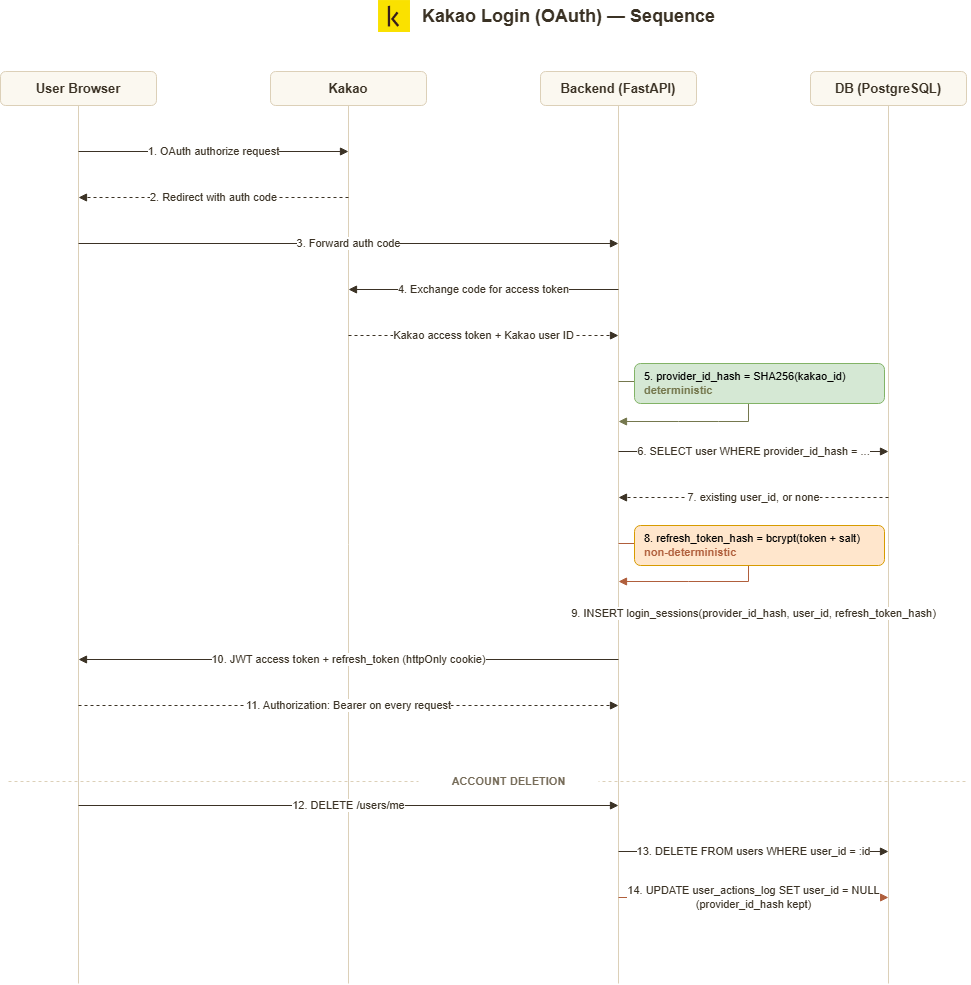
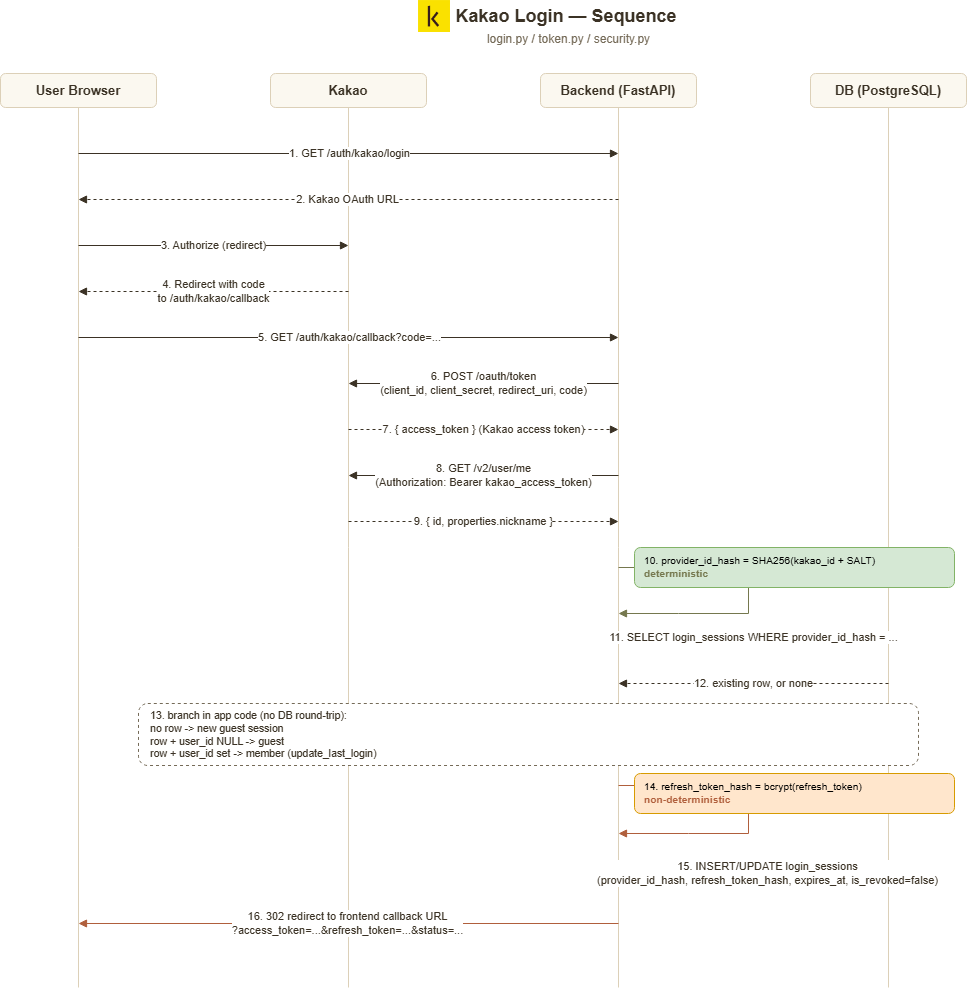
docs: UPDATE content

diff --git a/src/content.ko.js b/src/content.ko.js
@@ -8,7 +8,7 @@ export const profile = {
   greeting: "안녕하세요, 황윤정입니다.",
   role: "데이터 엔지니어링 · 백엔드 / 인프라 설계",
   tagline: "깊이 있게 공부하고, 배운 걸 기록하며, \n 그 과정을 통해 성장하는 걸 좋아합니다.",
-  current: "현재 공공데이터 활용 아이디어 공모전에 팀으로 참여 중입니다 \n (한국문화예술교육진흥원, ARTE)",
+  current: "현재 공공데이터 활용 아이디어 공모전에 팀으로 참여 중입니다. \n (한국문화예술교육진흥원, ARTE)",
   links: {
     github: "https://github.com/hvvrnz",
     velog: "https://velog.io/@0lalsoo",
@@ -41,7 +41,7 @@ export const serviceIntro = {
   description:
     "학교 포털에서 다운로드한 공식 성적표(엑셀 파일)를 올리면, 자동으로 어떤 과목을 들었는지 분류하고 졸업까지 뭐가 더 필요한지 보여줍니다. 단순히 학점만 더하는 게 아니라, 세부 항목별 이수 현황 추적, 수강 시뮬레이션, 평점(GPA) 분석, AI 수강 추천까지 제공합니다.",
   features: [
-    { title: "이수 과목 등록", desc: "성적표를 올리거나 직접 입력해서 들었던 과목을 등록" },
+    { title: "이수 과목 등록", desc: "성적표를 올리거나, 성적표 없이 기본정보만 입력하는 간단한 등록으로 member가 되면, 그 다음부터는 과목을 직접 추가·수정할 수 있음" },
     { title: "졸업요건 분석", desc: "전공 · 교양 · 기타 학점을 얼마나 채웠는지 바로 확인" },
     { title: "태그 관리", desc: "전공 · 교양의 세부 영역을 직접 만들고 최소 이수학점을 정함" },
     { title: "수강 시뮬레이션", desc: "앞으로 들을 과목을 미리 넣어보고 졸업요건이 채워지는지 확인" },
@@ -159,29 +159,16 @@ export const designInsights = [
     diagram: "kakaoLoginSequence",
   },
   {
-    title: "문제 해결 — 탈퇴 후 재가입 시 과목이 중복으로 쌓이던 문제",
+    title: "중복 판정의 기준 — 무엇을 \"같은 과목\"으로 볼 것인가",
     body:
-      "과목 데이터를 저장하는 트리거(fn_snap_evidence_to_validation)는 같은 데이터가 중복으로 들어오지 않게, 같은 사용자가 같은 과목을 다시 올리면 새로 만들지 않고 기존 데이터를 업데이트하도록 설계되어 있었습니다. \n 그런데 처음 만든 버전은 '같은 과목이 또 들어왔다'는 걸 로그로만 남기고, 실제로 막는 코드는 없었습니다 — 그래서 탈퇴 후 같은 카카오 계정으로 다시 가입한 사용자가 같은 과목을 또 올리면, 똑같은 고유 값(snap_unique_hash)을 가진 데이터가 또 쌓였고, 그 결과 신뢰도 점수와 누적 횟수가 실제보다 부풀려졌습니다. 감지했을 때 새로 추가하는 대신 기존 데이터를 업데이트하고 끝나도록 트리거를 고치고, 데이터베이스 자체에서 중복을 막아주는 제약(유니크 인덱스)도 추가해서 해결했습니다.",
-    code: `-- 수정 전 — 중복을 감지만 하고 막지는 않음
-RAISE NOTICE '재업로드 감지: validation_id % 번', v_past_validation_id;
--- 이후 그대로 새 데이터가 추가됨 → 중복 발생
-
--- 수정 후 — 기존 데이터를 업데이트하고 새로 추가하지 않음
-IF v_past_validation_id IS NOT NULL THEN
-    RAISE NOTICE '재업로드 감지: validation_id % 번', v_past_validation_id;
-    UPDATE lecture_validation
-    SET evidence_lec_id = NEW.evidence_lec_id
-    WHERE validation_id = v_past_validation_id;
-    RETURN NEW;  -- 여기서 끝내고 아래 INSERT는 실행 안 함
-END IF;
-
--- 기존 인덱스는 검색만 빠르게 해줄 뿐, 중복을 막아주진 못했음
--- CREATE INDEX idx_val_snap_unique_hash ON lecture_validation(snap_unique_hash);
-
--- 실제로 중복을 막아주는 제약 추가
-CREATE UNIQUE INDEX IF NOT EXISTS idx_val_snap_unique_hash_unique
-ON lecture_validation(snap_unique_hash)
-WHERE snap_unique_hash IS NOT NULL;`,
+      "lecture_frequency는 과목을 4개 컬럼(lecture_code, lecture_name, lecture_credit, lecture_category) 조합으로 판단해요 — user_id나 validation_id는 보지 않습니다. 의도한 거예요: 이 테이블은 'DB row가 몇 개 있는지'가 아니라 '독립된 업로드들이 이 과목의 존재에 얼마나 동의하는지'를 추적하는 거니까요. 탈퇴하면 lecture_evidence는 완전히 삭제돼서 unique_hash 자리가 비워지고, lecture_validation은 evidence_lec_id만 NULL로 남아서 이미 반영된 점수는 그대로 보존됩니다. 같은 사람이 재가입해서 같은 과목을 다시 올리면 트리거가 snap_unique_hash로 그 고아 row를 찾아내긴 하지만, 따로 막을 필요가 없어요: Airflow 배치는 lecture_validation의 한 row를 딱 한 번만 채점하도록 되어 있어서(fetch_unvalidated()가 validation_score IS NULL인 것만 골라냄), 이미 채점된 고아 row는 두 번 다시 안 뽑히고, 새로 INSERT된 row만 — 다른 일반 업로드와 똑같이 — 한 번 처리됩니다.",
+    code: null,
+  },
+  {
+    title: "권한(guest/member)을 토큰 자체에 박아넣기",
+    body:
+      "로그인 직후 단 한 번의 분기에서 guest인지 member인지를 정하고, 그 결과를 매번 DB에 다시 묻는 대신 JWT 페이로드(status: \"guest\" | \"member\")에 그대로 실어 보냅니다. Auth0나 Firebase의 custom claims도 같은 방식이에요 — 매 요청마다 등급을 확인하려고 DB를 왕복하지 않아도 된다는 장점이 있습니다. 이런 방식의 흔한 위험은 '오래된 토큰' 문제예요 — 세션 중간에 상태가 바뀌면 다음 갱신 전까지 토큰이 옛 상태를 그대로 들고 있게 되는 거죠. 이 전환이 실제로 일어나는 지점은 두 곳이에요 — 성적표를 업로드하는 경우(transcript.py)와, 성적표 없이 기본 정보만 입력하는 수동 등록 폼(register_router.py) — 그리고 lecture_router.py의 member 전용 엔드포인트 전부가 그 토큰의 status를 그대로 보고 guest는 막아버립니다. 두 전환 지점 모두 이 틈을 스스로 막아놨어요: 다음 토큰 갱신을 기다리지 않고, 각자의 응답 안에서 status=\"member\"가 박힌 새 access_token을(수동 등록 쪽은 refresh_token과 DB의 refresh_token_hash까지) 즉시 발급해서 돌려줍니다.",
+    code: null,
   },
 ];
 
@@ -250,4 +237,43 @@ export const studyNotes = {
 
 export const footer = {
   note: "데이터의 흐름을 끝까지 추적하고, 안정성을 확보하는 데 최선을 다하겠습니다.",
+};
+
+// 백엔드 API 구조 — 복원함: APIOverview.jsx가 아직 이 데이터를 읽고 있어요.
+// (예전 수정 과정에서 이 블록이 통째로 빠졌던 것 같아요. 이 섹션을 진짜로
+// 빼고 싶으면 이 export 전체와, src/App.jsx의 <APIOverview /> 줄을 같이 지우면 됩니다.)
+export const apiOverview = {
+  intro:
+    "13개 라우터가 전체 제품 영역을 다룹니다 — 로그인, 성적표 업로드 처리, 졸업요건 추적, 수강 시뮬레이션, AI 추천까지 모두 FastAPI와 비동기 SQLAlchemy로 구현했습니다.",
+  stack: [
+    { name: "FastAPI", desc: "여러 요청을 동시에 빠르게 처리하고, Pydantic으로 입력값을 검증" },
+    { name: "PostgreSQL + SQLAlchemy (async)", desc: "users / lectures / evidence / master 전반의 관계형 데이터 정합성" },
+    { name: "Kakao OAuth 2.0 + JWT", desc: "유일한 로그인 방식 — 자체 회원가입 없음, 모든 요청에서 JWT를 자동으로 검증" },
+    { name: "Google Gemini API (gemini-2.5-flash)", desc: "수강 추천 문장 생성, 결과는 캐시해서 재사용" },
+  ],
+  routers: [
+    { name: "auth", prefix: "/api/v1/auth", desc: "카카오 로그인, 토큰 갱신, 로그아웃" },
+    { name: "upload", prefix: "/api/v1/upload", desc: "성적표 .xlsx 업로드, 1·2단계 검증 워커 실행" },
+    { name: "lecture", prefix: "/api/v1/courses", desc: "이수 과목 등록·조회·수정·삭제, 초성 검색 지원" },
+    { name: "tag", prefix: "/api/v1/tags", desc: "졸업요건 태그를 직접 만들고 최소 이수학점 설정" },
+    { name: "simulation", prefix: "/api/v1/simulation", desc: "들을 과목 미리 등록, 시뮬레이션 결과 조회" },
+    { name: "user_gpa", prefix: "/api/v1/users/me/gpa-targets", desc: "목표 GPA 설정 및 시뮬레이션" },
+    { name: "ai", prefix: "/api/v1/ai", desc: "AI 수강 추천, 캐시·쿨다운 상태 조회" },
+    { name: "curriculum / user_majors", prefix: "/api/v1/curriculum, /majors", desc: "학과별 커리큘럼 버전 조회" },
+  ],
+};
+
+// 섹션 제목/라벨 — 언어 토글에 맞춰 제목도 같이 바뀌도록 분리해놓은 데이터예요.
+// (예전엔 이 텍스트들이 각 컴포넌트 안에 직접 박혀있어서, 토글해도 제목만 영어로 남았었어요.)
+export const sectionTitles = {
+  origin: { eyebrow: "// origin", title: "시간표 추천에서 졸업요건 시각화로" },
+  project: { eyebrow: "// zolver in production", title: "아이디어에서 실제 운영 서비스로" },
+  apiOverview: { eyebrow: "// backend api", title: "13개 라우터, 하나의 일관된 구조" },
+  architecture: { eyebrow: "// system design", title: "아키텍처" },
+  troubleshooting: { eyebrow: "// troubleshooting", title: "막혔던 지점들" },
+  observability: { eyebrow: "// observability", title: "런칭 후 파이프라인 지켜보기" },
+  designInsights: { eyebrow: "// design insight", title: "설계 결정" },
+  aiStory: { eyebrow: "// AI usage" },
+  techStack: { eyebrow: "// stack", title: "사용 기술" },
+  studyNotes: { eyebrow: "// study notes", title: "손으로 그려가며 정리하는 습관" },
 };

diff --git a/src/content.en.js b/src/content.en.js
@@ -41,7 +41,7 @@ export const serviceIntro = {
   description:
     "Upload the official transcript (an Excel file) downloaded from your school portal, and the service automatically classifies your completed courses and shows what's left to graduate. Beyond simple credit totals, it also offers tag-based detailed progress tracking, course simulation, GPA analysis, and AI course recommendations.",
   features: [
-    { title: "Register completed courses", desc: "Register your course history by uploading a transcript or entering it manually" },
+    { title: "Register completed courses", desc: "Become a verified member by uploading a transcript, or by filling out a short manual registration form — then add or edit individual courses by hand" },
     { title: "Graduation requirement analysis", desc: "See major / general education / other credit completion in real time" },
     { title: "Tag management", desc: "Create your own sub-categories for major/general education and set minimum required credits" },
     { title: "Course simulation", desc: "Pre-register future courses to check whether graduation requirements would be met" },
@@ -159,29 +159,16 @@ export const designInsights = [
     diagram: "kakaoLoginSequence",
   },
   {
-    title: "Problem Solved — Duplicate Course Data After Account Deletion & Re-signup",
+    title: "What counts as \"the same course,\" for dedup purposes",
     body:
-      "The trigger that writes course data into lecture_validation (fn_snap_evidence_to_validation) was designed to be idempotent using snap_unique_hash: if the same user re-uploaded the same course, it should update the existing row rather than create a new one. \n The first version of this trigger detected the re-upload but only logged it via RAISE NOTICE and still proceeded with the INSERT. So when a user deleted their account and re-signed up with the same Kakao account (same provider_id_hash) and re-uploaded the same course, a row with the same snap_unique_hash got duplicated again, inflating total_val_score and match_count in lecture_frequency. Fixed it by having the trigger update the existing row instead of inserting a new one when a re-upload is detected, and added a partial unique index that actually enforces the no-duplicate constraint.",
-    code: `-- Before — detects the duplicate but doesn't block it
-RAISE NOTICE 'Re-upload detected: validation_id %', v_past_validation_id;
--- INSERT still proceeds afterward → duplicate data
-
--- After — updates the existing row, blocks the INSERT
-IF v_past_validation_id IS NOT NULL THEN
-    RAISE NOTICE 'Re-upload detected: validation_id %', v_past_validation_id;
-    UPDATE lecture_validation
-    SET evidence_lec_id = NEW.evidence_lec_id
-    WHERE validation_id = v_past_validation_id;
-    RETURN NEW;  -- stop here, skip the INSERT below
-END IF;
-
--- The old index was lookup-only — it never enforced uniqueness
--- CREATE INDEX idx_val_snap_unique_hash ON lecture_validation(snap_unique_hash);
-
--- A real constraint that enforces no duplicates at the database level
-CREATE UNIQUE INDEX IF NOT EXISTS idx_val_snap_unique_hash_unique
-ON lecture_validation(snap_unique_hash)
-WHERE snap_unique_hash IS NOT NULL;`,
+      "lecture_frequency treats a course as the same unit based on four columns — lecture_code, lecture_name, lecture_credit, lecture_category — not on user_id or validation_id. That's deliberate: the table is meant to track how many independent uploads agree a course exists, not how many database rows point to it. On account deletion, lecture_evidence rows are deleted outright (freeing the unique_hash for reuse), while lecture_validation rows are kept with evidence_lec_id set to NULL, preserving the score they already contributed. If the same person re-signs up and re-uploads the same course, the trigger notices the orphaned row by snap_unique_hash but doesn't need to block anything: the Airflow batch only ever scores a lecture_validation row once (fetch_unvalidated() filters on validation_score IS NULL), so the already-scored orphan is never picked up a second time — only the freshly inserted row gets processed, exactly like any other new upload.",
+    code: null,
+  },
+  {
+    title: "Baking guest/member status into the token itself",
+    body:
+      "Guest vs. member is decided once, in a single branch right after login, and from there it's written straight into the JWT payload (status: \"guest\" | \"member\") instead of being re-queried from the DB on every request. Auth0 and Firebase's custom claims work the same way — the payoff is no DB round-trip just to check tier on each call. The usual risk with this pattern is staleness: if status changes mid-session, a cached token won't reflect it until the next refresh. There are two places where that transition actually happens — uploading a transcript (transcript.py), or filling out the short manual registration form with no transcript at all (register_router.py) — and every member-only endpoint in lecture_router.py checks status straight off the current token, with guests blocked outright. Both transition points close the gap themselves: each one issues a fresh access_token (and, for manual registration, a fresh refresh_token plus a re-hashed refresh_token_hash in the DB) with status=\"member\" directly in its own response, instead of waiting for the next refresh cycle.",
+    code: null,
   },
 ];
 
@@ -250,4 +237,44 @@ export const studyNotes = {
 
 export const footer = {
   note: "I'll keep tracing data all the way through and doing my best to ensure stability.",
+};
+
+// Backend API surface — restored: APIOverview.jsx still reads this.
+// (This block went missing from a previous edit — if you actually want
+// the "Backend API" section gone, delete this export AND remove
+// <APIOverview /> from src/App.jsx.)
+export const apiOverview = {
+  intro:
+    "13 routers cover the full product surface — auth, transcript ingestion, requirement tracking, simulation, and AI recommendation — all under FastAPI with async SQLAlchemy.",
+  stack: [
+    { name: "FastAPI", desc: "async request handling, Pydantic validation" },
+    { name: "PostgreSQL + SQLAlchemy (async)", desc: "relational integrity across users / lectures / evidence / master" },
+    { name: "Kakao OAuth 2.0 + JWT", desc: "the only login path — no native sign-up, JWT verified by a global middleware" },
+    { name: "Google Gemini API (gemini-2.5-flash)", desc: "course recommendation generation, cached" },
+  ],
+  routers: [
+    { name: "auth", prefix: "/api/v1/auth", desc: "Kakao login, token refresh, logout" },
+    { name: "upload", prefix: "/api/v1/upload", desc: "transcript .xlsx upload, triggers L1/L2 worker" },
+    { name: "lecture", prefix: "/api/v1/courses", desc: "CRUD on completed courses, chosung-aware search" },
+    { name: "tag", prefix: "/api/v1/tags", desc: "custom requirement tags, minimum-credit rules" },
+    { name: "simulation", prefix: "/api/v1/simulation", desc: "register planned courses, view simulated outcome" },
+    { name: "user_gpa", prefix: "/api/v1/users/me/gpa-targets", desc: "GPA targets and simulation" },
+    { name: "ai", prefix: "/api/v1/ai", desc: "AI course recommendation, cache/cooldown status" },
+    { name: "curriculum / user_majors", prefix: "/api/v1/curriculum, /majors", desc: "department curriculum versions" },
+  ],
+};
+
+// Section eyebrow/title pairs — used so headings actually switch language
+// with the EN/KO toggle, instead of being hardcoded inside each component.
+export const sectionTitles = {
+  origin: { eyebrow: "// origin", title: "From timetable recommendation to graduation-requirement visualization" },
+  project: { eyebrow: "// zolver in production", title: "From idea to a running service" },
+  apiOverview: { eyebrow: "// backend api", title: "13 routers, one consistent surface" },
+  architecture: { eyebrow: "// system design", title: "Architecture" },
+  troubleshooting: { eyebrow: "// troubleshooting", title: "Where I got stuck" },
+  observability: { eyebrow: "// observability", title: "Watching the pipeline after launch" },
+  designInsights: { eyebrow: "// design insight", title: "Design decisions" },
+  aiStory: { eyebrow: "// AI usage" },
+  techStack: { eyebrow: "// stack", title: "Tech stack" },
+  studyNotes: { eyebrow: "// study notes", title: "A habit of sketching things out by hand" },
 };

diff --git a/src/components/APIOverview.jsx b/src/components/APIOverview.jsx
@@ -1,0 +1,33 @@
+import Text from "./Text.jsx";
+import { useContent } from "../i18n.jsx";
+
+export default function APIOverview() {
+  const { apiOverview, sectionTitles } = useContent();
+  return (
+    <section className="section">
+      <div className="container">
+        <span className="eyebrow">{sectionTitles.apiOverview.eyebrow}</span>
+        <h2 className="section-title">{sectionTitles.apiOverview.title}</h2>
+        <p className="prose lead" style={{ marginBottom: 28 }}><Text>{apiOverview.intro}</Text></p>
+
+        <div className="stack-list" style={{ marginBottom: 36 }}>
+          {apiOverview.stack.map((t) => (
+            <div className="stack-row" key={t.name}>
+              <div className="stack-name">{t.name}</div>
+              <div className="stack-desc"><Text>{t.desc}</Text></div>
+            </div>
+          ))}
+        </div>
+
+        <div className="api-router-list">
+          {apiOverview.routers.map((r) => (
+            <div className="api-router-row" key={r.name}>
+              <span className="api-router-prefix">{r.prefix}</span>
+              <span className="api-router-desc"><Text>{r.desc}</Text></span>
+            </div>
+          ))}
+        </div>
+      </div>
+    </section>
+  );
+}

diff --git a/src/components/Architecture.jsx b/src/components/Architecture.jsx
@@ -5,12 +5,12 @@ import erdImg from "../assets/diagrams/erd.png";
 import { useContent } from "../i18n.jsx";
 
 export default function Architecture() {
-  const { architecture } = useContent();
+  const { architecture, sectionTitles } = useContent();
   return (
     <section className="section">
       <div className="container">
-        <span className="eyebrow">// system design</span>
-        <h2 className="section-title">Architecture</h2>
+        <span className="eyebrow">{sectionTitles.architecture.eyebrow}</span>
+        <h2 className="section-title">{sectionTitles.architecture.title}</h2>
         <p className="prose lead" style={{ marginBottom: 32 }}><Text>{architecture.intro}</Text></p>
 
         <div className="diagram-card">

diff --git a/src/components/DesignInsights.jsx b/src/components/DesignInsights.jsx
@@ -7,12 +7,12 @@ const DIAGRAMS = {
 };
 
 export default function DesignInsights() {
-  const { designInsights } = useContent();
+  const { designInsights, sectionTitles } = useContent();
   return (
     <section className="section">
       <div className="container">
-        <span className="eyebrow">// design insight</span>
-        <h2 className="section-title">Design decisions</h2>
+        <span className="eyebrow">{sectionTitles.designInsights.eyebrow}</span>
+        <h2 className="section-title">{sectionTitles.designInsights.title}</h2>
 
         <div className="insight-list">
           {designInsights.map((d) => (

diff --git a/src/components/Observability.jsx b/src/components/Observability.jsx
@@ -2,12 +2,12 @@ import Text from "./Text.jsx";
 import { useContent } from "../i18n.jsx";
 
 export default function Observability() {
-  const { observability } = useContent();
+  const { observability, sectionTitles } = useContent();
   return (
     <section className="section">
       <div className="container">
-        <span className="eyebrow">// observability</span>
-        <h2 className="section-title">Watching the pipeline after launch</h2>
+        <span className="eyebrow">{sectionTitles.observability.eyebrow}</span>
+        <h2 className="section-title">{sectionTitles.observability.title}</h2>
         <p className="prose lead" style={{ marginBottom: 28 }}><Text>{observability.intro}</Text></p>
 
         <div className="obs-logtypes">

diff --git a/src/components/Origin.jsx b/src/components/Origin.jsx
@@ -2,13 +2,13 @@ import Text from "./Text.jsx";
 import { useContent } from "../i18n.jsx";
 
 export default function Origin() {
-  const { originStory, originSurvey } = useContent();
+  const { originStory, originSurvey, sectionTitles } = useContent();
   const paragraphs = originStory.trim().split("\n\n");
   return (
     <section className="section">
       <div className="container">
-        <span className="eyebrow">// origin</span>
-        <h2 className="section-title">From timetable recommendation to graduation-requirement visualization</h2>
+        <span className="eyebrow">{sectionTitles.origin.eyebrow}</span>
+        <h2 className="section-title">{sectionTitles.origin.title}</h2>
         <div className="prose lead">
           {paragraphs.map((p, i) => (
             <p key={i}><Text>{p}</Text></p>

diff --git a/src/components/Project.jsx b/src/components/Project.jsx
@@ -2,12 +2,12 @@ import Text from "./Text.jsx";
 import { useContent } from "../i18n.jsx";
 
 export default function Project() {
-  const { stats, serviceIntro } = useContent();
+  const { stats, serviceIntro, sectionTitles } = useContent();
   return (
     <section className="section">
       <div className="container">
-        <span className="eyebrow">// zolver in production</span>
-        <h2 className="section-title">From idea to a running service</h2>
+        <span className="eyebrow">{sectionTitles.project.eyebrow}</span>
+        <h2 className="section-title">{sectionTitles.project.title}</h2>
 
         <div className="stats-grid">
           {stats.map((s) => (

diff --git a/src/components/StudyNotes.jsx b/src/components/StudyNotes.jsx
@@ -2,12 +2,12 @@ import Text from "./Text.jsx";
 import { useContent } from "../i18n.jsx";
 
 export default function StudyNotes() {
-  const { studyNotes } = useContent();
+  const { studyNotes, sectionTitles } = useContent();
   return (
     <section className="section">
       <div className="container">
-        <span className="eyebrow">// study notes</span>
-        <h2 className="section-title">A habit of sketching things out by hand</h2>
+        <span className="eyebrow">{sectionTitles.studyNotes.eyebrow}</span>
+        <h2 className="section-title">{sectionTitles.studyNotes.title}</h2>
         <p className="prose lead notes-intro"><Text>{studyNotes.intro}</Text></p>
 
         <div className="notes-grid">

diff --git a/src/components/TechStack.jsx b/src/components/TechStack.jsx
@@ -2,12 +2,12 @@ import Text from "./Text.jsx";
 import { useContent } from "../i18n.jsx";
 
 export default function TechStack() {
-  const { techStack } = useContent();
+  const { techStack, sectionTitles } = useContent();
   return (
     <section className="section">
       <div className="container">
-        <span className="eyebrow">// stack</span>
-        <h2 className="section-title">Tech stack</h2>
+        <span className="eyebrow">{sectionTitles.techStack.eyebrow}</span>
+        <h2 className="section-title">{sectionTitles.techStack.title}</h2>
         <div className="stack-list">
           {techStack.map((t) => (
             <div className="stack-row" key={t.name}>

diff --git a/src/components/Troubleshooting.jsx b/src/components/Troubleshooting.jsx
@@ -3,14 +3,14 @@ import Text from "./Text.jsx";
 import { useContent } from "../i18n.jsx";
 
 export default function Troubleshooting() {
-  const { troubleshooting } = useContent();
+  const { troubleshooting, sectionTitles } = useContent();
   const [openIdx, setOpenIdx] = useState(0);
 
   return (
     <section className="section">
       <div className="container">
-        <span className="eyebrow">// troubleshooting</span>
-        <h2 className="section-title">Where I got stuck</h2>
+        <span className="eyebrow">{sectionTitles.troubleshooting.eyebrow}</span>
+        <h2 className="section-title">{sectionTitles.troubleshooting.title}</h2>
         <p className="prose lead" style={{ marginBottom: 8 }}>
           Real problems I ran into while operating the service. Click to expand.
         </p>

diff --git a/src/components/AIStory.jsx b/src/components/AIStory.jsx
@@ -2,11 +2,11 @@ import Text from "./Text.jsx";
 import { useContent } from "../i18n.jsx";
 
 export default function AIStory() {
-  const { aiStory } = useContent();
+  const { aiStory, sectionTitles } = useContent();
   return (
     <section className="section">
       <div className="container">
-        <span className="eyebrow">// AI usage</span>
+        <span className="eyebrow">{sectionTitles.aiStory.eyebrow}</span>
         <h2 className="section-title">{aiStory.title}</h2>
         <p className="ai-lead"><Text>{aiStory.lead}</Text></p>
 